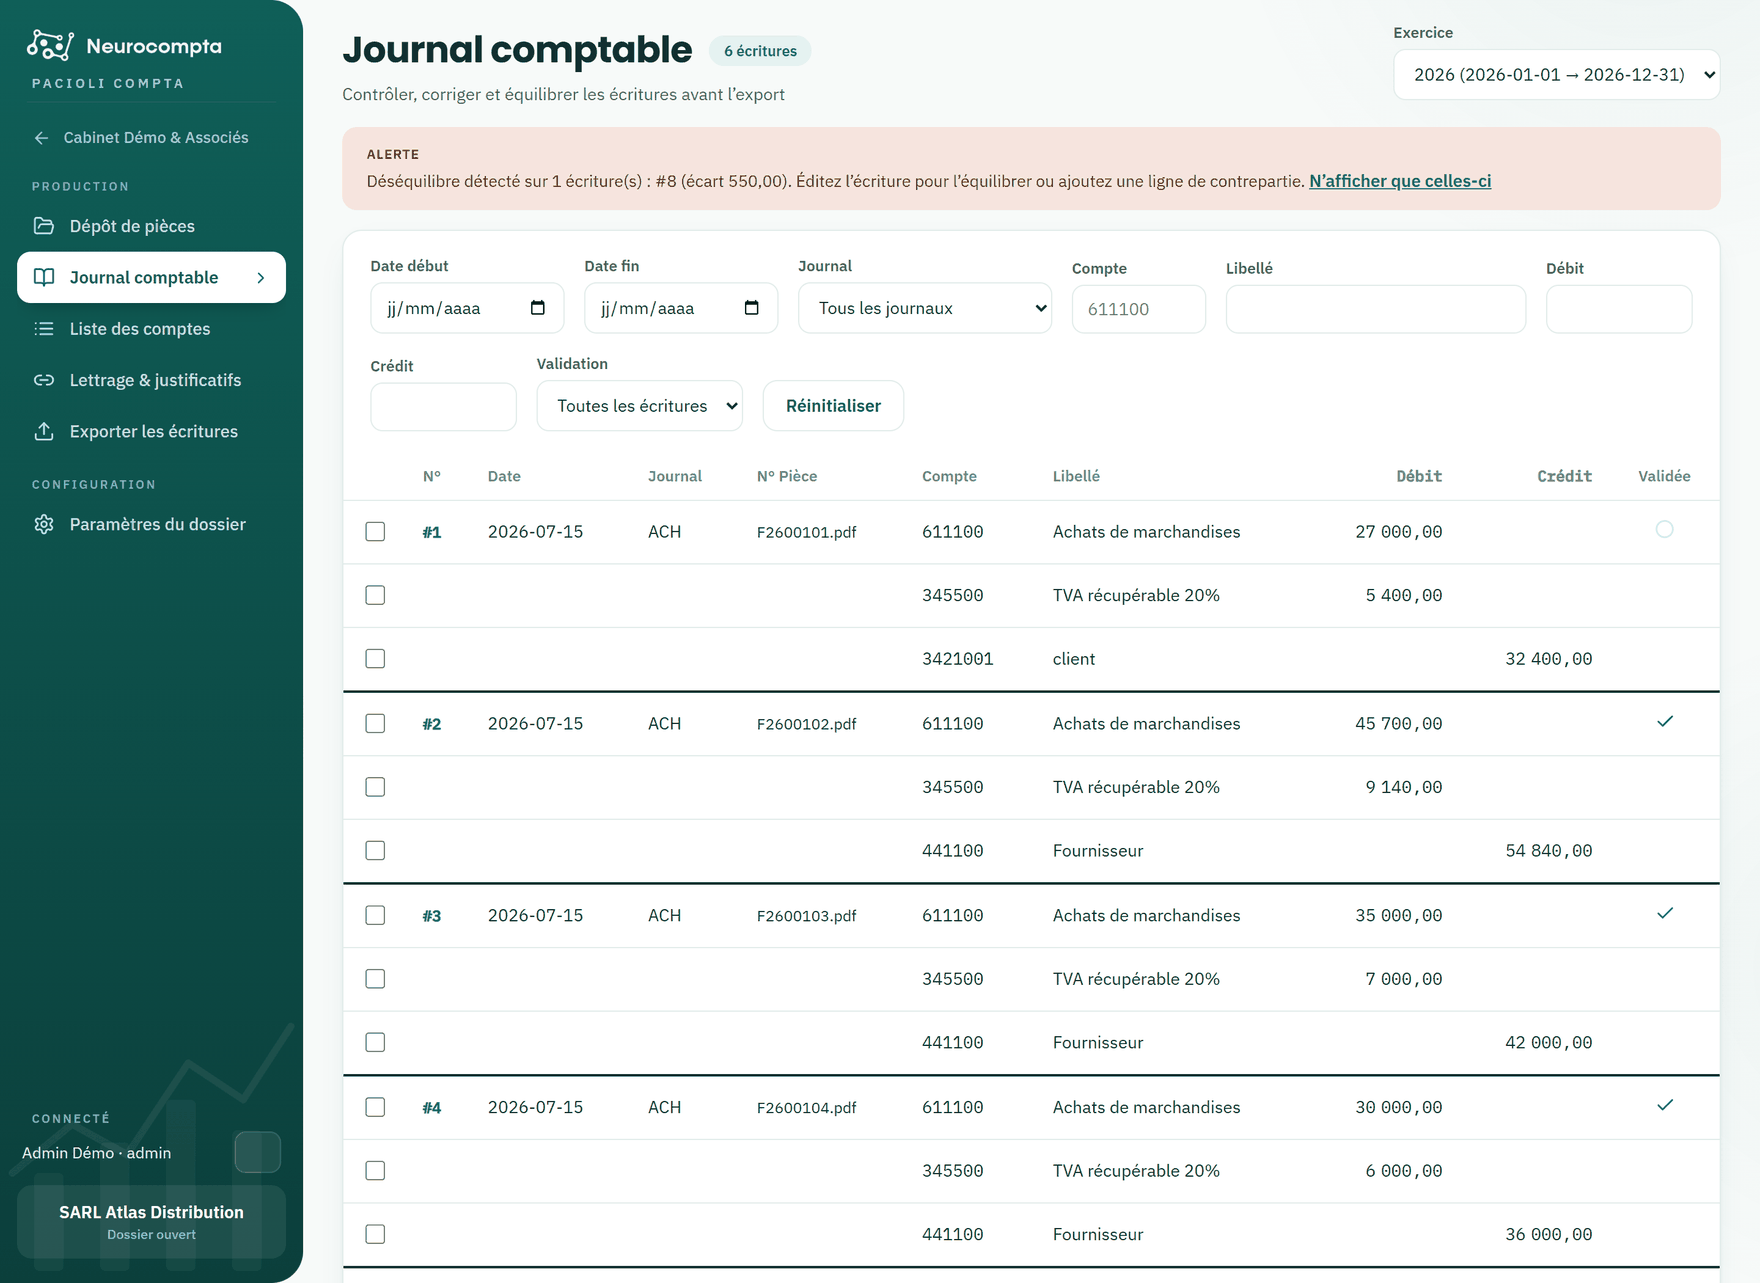
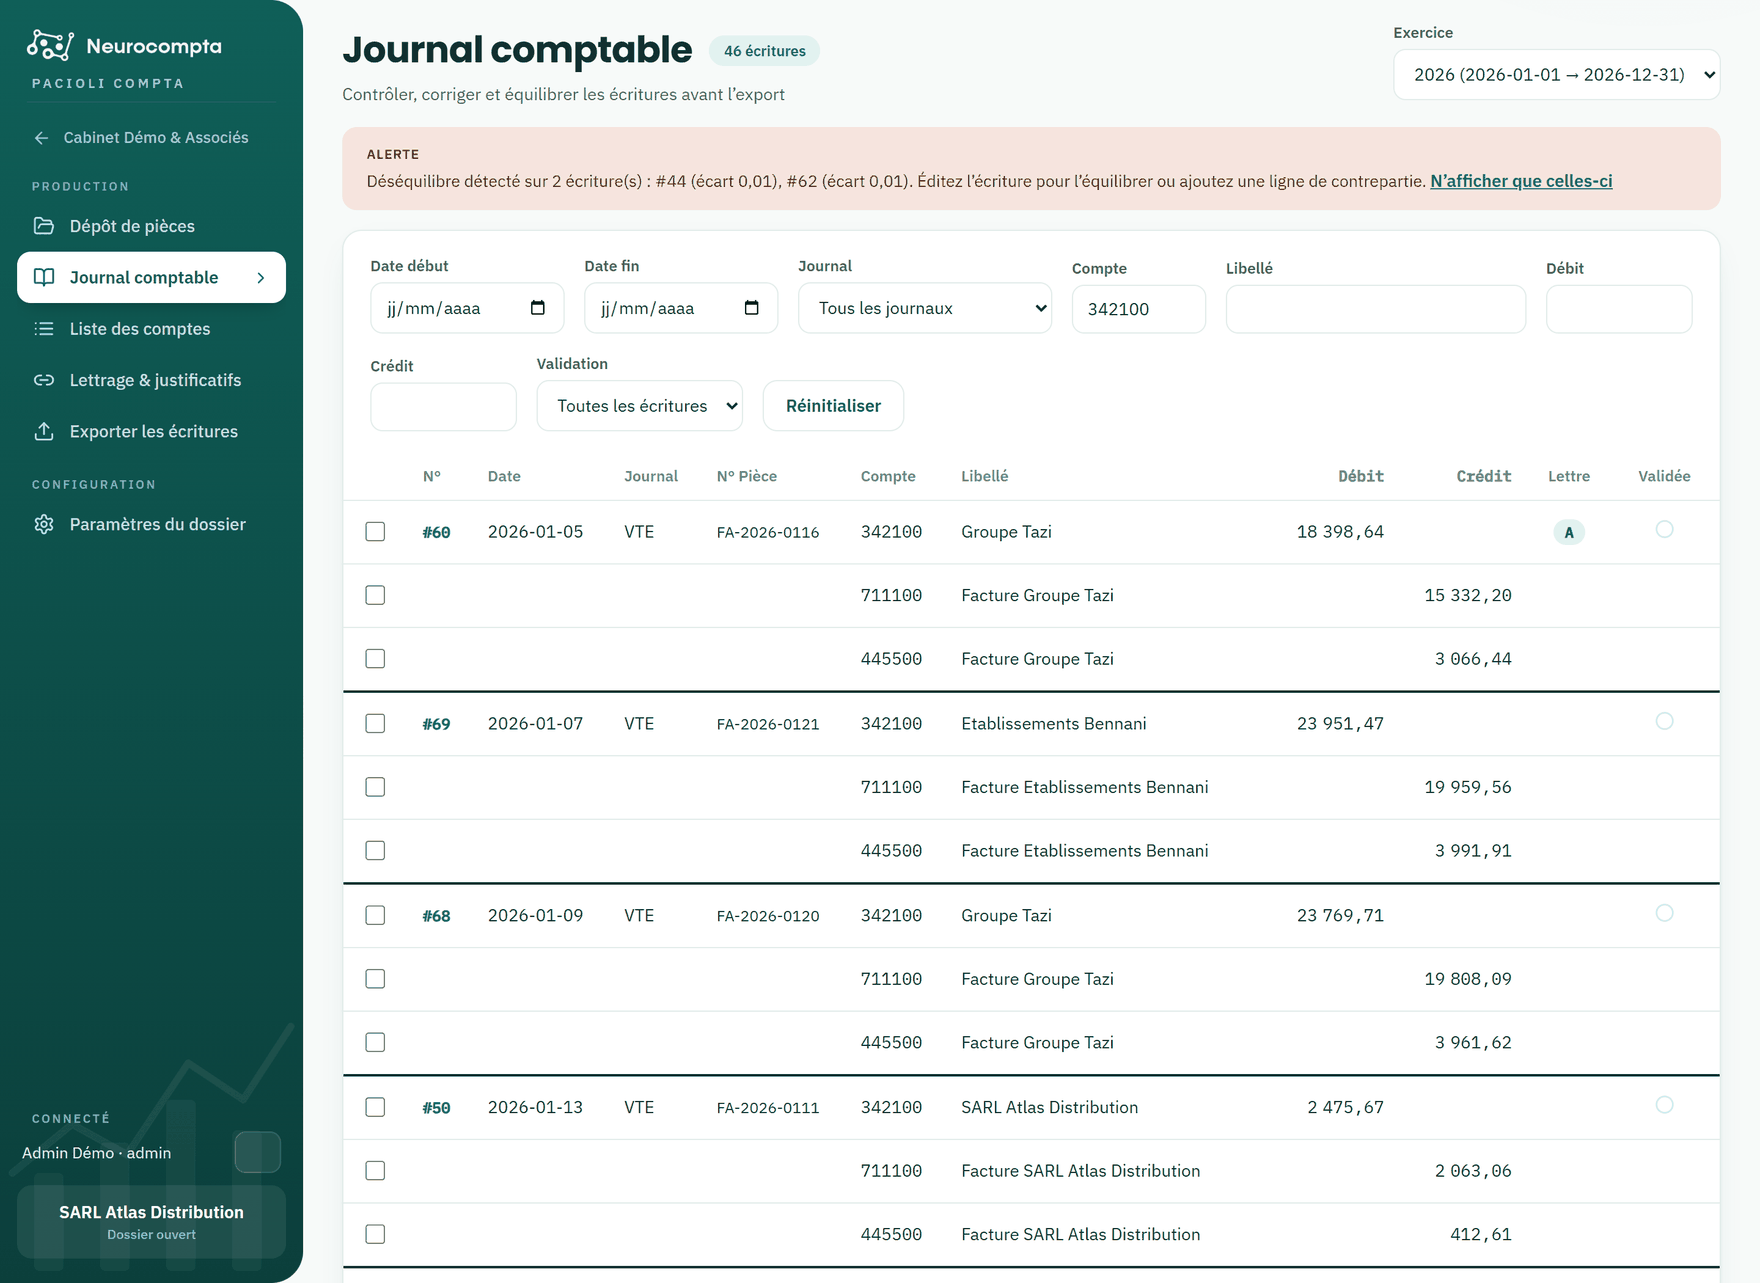
Lettrage : nouvelle présentation des propositions, et lettre au journal
Article « Lettrer et justifier »
- une proposition affiche désormais les lignes qu'elle rapproche
- deux groupes distincts : rapprochements sûrs, et à vérifier
- la règle « montant et date » ne s'applique jamais seule
- rien n'est proposé quand plusieurs lignes se disputent le même montant
- renvoi vers le journal en fin d'article

Article « Consulter le journal comptable »
- nouvelle section « Repérer les lignes lettrées » avec sa capture
- colonne Lettre, fenêtre de détail, méthode en clair, total de contrôle

Captures reprises : lettrage, pièces à justifier, journal, détail du lettrage.

diff --git a/index.html b/index.html
@@ -263,6 +263,14 @@
 </ul>
 <h3>Ouvrir une écriture</h3>
 <p>Cliquez sur le numéro d'une écriture pour l'ouvrir en saisie. Vos filtres sont conservés : en revenant au journal, vous retrouvez exactement la liste que vous aviez.</p>
+<h3>Repérer les lignes lettrées</h3>
+<p>La colonne <b>Lettre</b> affiche le code de lettrage des lignes rapprochées. Un clic sur la lettre ouvre le détail : toutes les lignes que ce lettrage réunit, souvent réparties sur plusieurs écritures et plusieurs journaux.</p>
+<figure><img loading="lazy" src="img/lettrage-detail.png" alt="Le détail d’un lettrage ouvert depuis le journal"><figcaption>Le détail d’un lettrage, ouvert en cliquant sur sa lettre</figcaption></figure>
+<ul class="dots">
+<li>La fenêtre rappelle <b>la méthode</b> du rapprochement en clair : référence citée, montant et libellés concordants, ou fait à la main.</li>
+<li><b>Le total débit et crédit</b> permet de vérifier d’un coup d’œil que le groupe s’annule.</li>
+<li>Une colonne Lettre vide signifie que la ligne reste à lettrer.</li>
+</ul>
 <h3>Valider</h3>
 <ul class="dots">
 <li>La validation se fait écriture par écriture, ou sur une <b>sélection</b>.</li>
@@ -287,12 +295,18 @@
 <article id="lettrage"><h2><span class="num">8.</span> Lettrer et justifier</h2><p class="intro">Le lettrage consiste à faire s'annuler les lignes d'un compte de tiers : une facture avec son règlement. L'écran vous propose les rapprochements, avec leur motif en clair — un rapprochement qu'on ne sait pas expliquer n'a pas sa place dans un dossier.</p>
 <figure><img loading="lazy" src="img/lettrage.png" alt="Les comptes de tiers et les rapprochements proposés"><figcaption>Les comptes de tiers et les rapprochements proposés, avec leur score et leur motif</figcaption></figure>
 <h3>Lire une proposition</h3>
-<p>Chaque proposition porte un score et la règle qui l'a produite. Plus le score est élevé, plus le rapprochement est sûr.</p>
+<p>Chaque proposition affiche <b>les lignes qu'elle rapproche</b> — date, journal, référence, tiers et montants — avec le score et la règle qui l'a produite. Vous jugez sur pièce, sans quitter l'écran.</p>
 <ul class="dots">
 <li><b>Référence citée</b> : le numéro de la facture apparaît dans le libellé du règlement. C'est la preuve la plus directe.</li>
-<li><b>Montant et date</b> : montant identique, dates rapprochées.</li>
 <li><b>Montant et tiers</b> : montant identique, et libellés désignant visiblement le même tiers.</li>
+<li><b>Montant et date</b> : montant identique et dates proches, mais aucun libellé ne confirme le tiers. Jamais appliqué automatiquement.</li>
 <li><b>Règlement groupé</b> : un versement solde plusieurs factures à la fois.</li>
+</ul>
+<h3>Deux groupes, deux gestes</h3>
+<ul class="dots">
+<li><b>Rapprochements sûrs</b> : le lettrage automatique les applique d'un coup.</li>
+<li><b>À vérifier</b> : le montant concorde mais rien ne confirme le tiers. Relisez avant d'appliquer.</li>
+<li>Quand plusieurs lignes se disputent le même montant sans autre indice, <b>rien n'est proposé</b> : le choix serait arbitraire, il vous revient.</li>
 </ul>
 <h3>Appliquer les rapprochements</h3>
 <ol class="steps">
@@ -315,6 +329,8 @@
 <li>Dès que l'analyse produit l'écriture de la pièce, celle-ci est <b>lettrée automatiquement</b> avec le mouvement bancaire.</li>
 <li>Si les montants ne s'annulent pas — règlement partiel, écart de change — rien n'est forcé : le lettrage reste à faire à la main.</li>
 </ul>
+<h3>Retrouver un lettrage depuis le journal</h3>
+<p>Une fois appliqué, le lettrage se consulte aussi depuis le <b>journal comptable</b> : la colonne Lettre y affiche le code, et un clic dessus rouvre le détail du rapprochement.</p>
 <div class="callout warn"><span><svg width="17" height="17" viewBox="0 0 24 24" fill="none" stroke="currentColor" stroke-width="2"><path d="M10.3 3.9 1.8 18a2 2 0 0 0 1.7 3h17a2 2 0 0 0 1.7-3L13.7 3.9a2 2 0 0 0-3.4 0z"/><line x1="12" y1="9" x2="12" y2="13"/><line x1="12" y1="17" x2="12.01" y2="17"/></svg></span><div><span class="lead-w">Bon à savoir —</span> Les comptes lettrables dépendent du plan comptable du dossier, donc de son pays. Le plan appliqué est rappelé en haut de chaque onglet.</div></div>
 <div class="callout"><span><svg width="17" height="17" viewBox="0 0 24 24" fill="none" stroke="currentColor" stroke-width="2"><path d="M9 18h6M10 22h4M12 2a7 7 0 0 0-4 12.7c.6.5 1 1.3 1 2.1v.2h6v-.2c0-.8.4-1.6 1-2.1A7 7 0 0 0 12 2z"/></svg></span><div><span class="lead-w">Astuce —</span> Un lettrage doit toujours être de solde nul. Si le groupe ne s'annule pas, c'est qu'il reste quelque chose à régler : ne forcez pas, cherchez la ligne manquante.</div></div></article>
 
